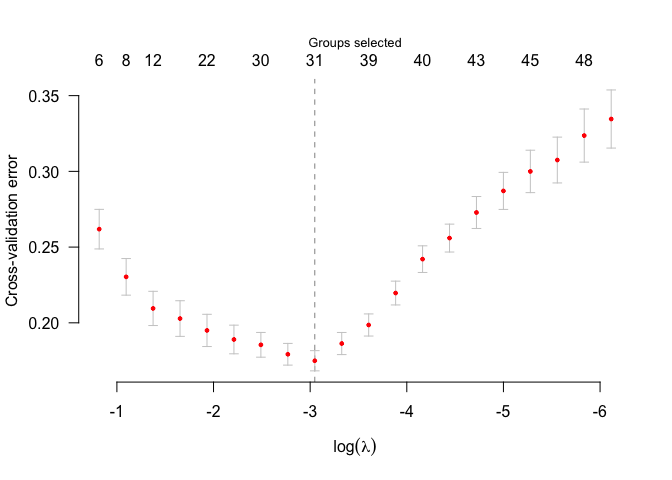
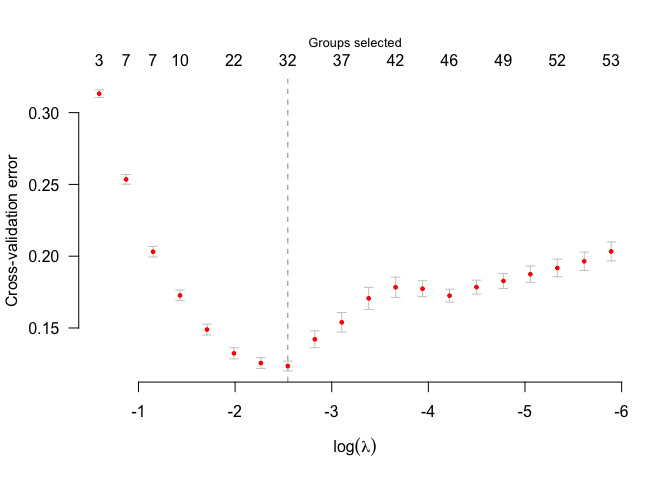
README

diff --git a/README.md b/README.md
@@ -38,12 +38,18 @@ y <- GenAtHum$y
 group <- GenAtHum$group
 n =  nrow(X)
 p =  ncol(X)
-set.seed(123)
-model_CV <- cv.sglasso(X,y,group, nlambda=20, nd=3, nfolds =5)
+set.seed(2025)
+model_CV <- cv.sglasso(X,y,group, nlambda=20, nd= 5, nfold = 5, alpha = 0.4)
 plot(model_CV)
 ```
 
 <img src="man/figures/README-example-1.png" width="100%" />
+
+``` r
+plot(model_CV,type.tun = "d")
+```
+
+<img src="man/figures/README-example-2.png" width="100%" />
 
 # References
 
